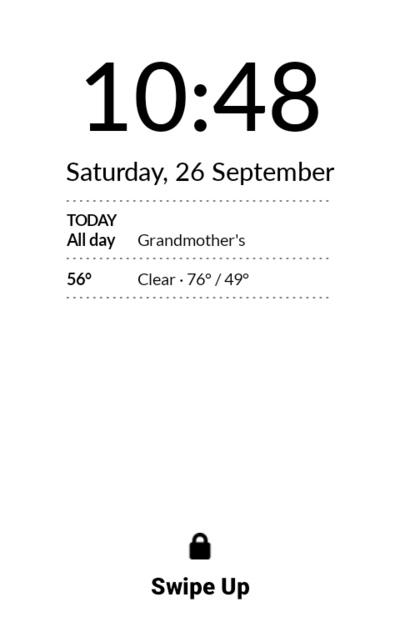
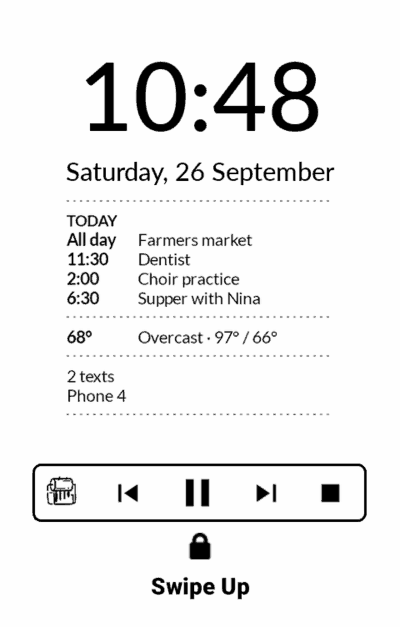
Card shots: Whereabouts and Music Box as they are now; Glance with a full lock screen
Whereabouts has the MMD bar and tabs; Music Box's Songs bar carries
shuffle and Now playing. Glance's lock screen now shows the whole panel
(today's events, the weather, unread texts, an app's notifications) with
Music Box's controls above the padlock, from made-up data.

diff --git a/index.html b/index.html
@@ -219,7 +219,7 @@ so nothing animates and every page can be read in sunlight.</p>
 
 <div class="app" id="hitome">
   <img class="shot" src="shots/hitome.png" width="400" height="627" loading="lazy"
-       alt="The Kompakt lock screen with today's event and the weather under the clock">
+       alt="The Kompakt lock screen: today's four events, the weather, unread texts and missed calls under the clock, and Music Box's controls above the padlock">
   <h4>Glance <button type="button" class="jp" aria-pressed="false" title="日本語で読む">/ 一目 hitome</button></h4>
   <p class="en">Today's events, the weather and what is unread, on the lock screen, from
   <a href="#koyomi">Calendar</a>, <a href="#soramoyo">Sky</a>, <a href="#kotozute">Messaging</a>
